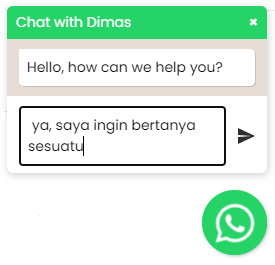
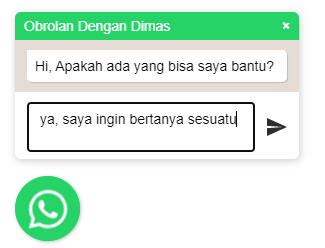
update

diff --git a/assets/whatsapp/index.html b/assets/whatsapp/index.html
@@ -15,12 +15,14 @@
 </head>
 
 <body>
-    <div id="myButton"></div>
+    <div id="food"></div>
+    <div id="whatsapp"></div>
 </body>
 
 <script type="text/javascript">
     $(function () {
-        $('#myButton').floatingWhatsApp({
+        $('#food').floatingWhatsApp({
+            position: 'right',
             phone: '6285811379583',
             popupMessage: 'Apakah ada yang bisa saya bantu?',
             message: "ya, saya ingin memesan pizza",
@@ -30,6 +32,24 @@
             headerColor: 'red',
             backgroundColor: 'red',
             buttonImage: '<img src="burger.svg" />'
+        });
+    });
+</script>
+<script type="text/javascript">
+    $(function () {
+        $('#whatsapp').floatingWhatsApp({
+            position: 'left',
+            size: '65px',
+            boxShadow:"10px 20px 80px blue",
+            phone: '6285811379583',
+            popupMessage: 'Hi, Apakah ada yang bisa saya bantu?',
+            message: " ",
+            showPopup: true,
+            showOnIE: true,
+            headerTitle: 'Obrolan Dengan Dimas',
+            headerColor: '#25D366',
+            backgroundColor: '#25D366',
+            buttonImage: '<img src="whatsapp.svg" />'
         });
     });
 </script>

diff --git a/assets/whatsapp/README.md b/assets/whatsapp/README.md
@@ -1,5 +1,5 @@
 # Floating WhatsApp
-
+![](demo.png)
 Plugin floating WhatsApp dengan menggunakan jQuery.
 
 
